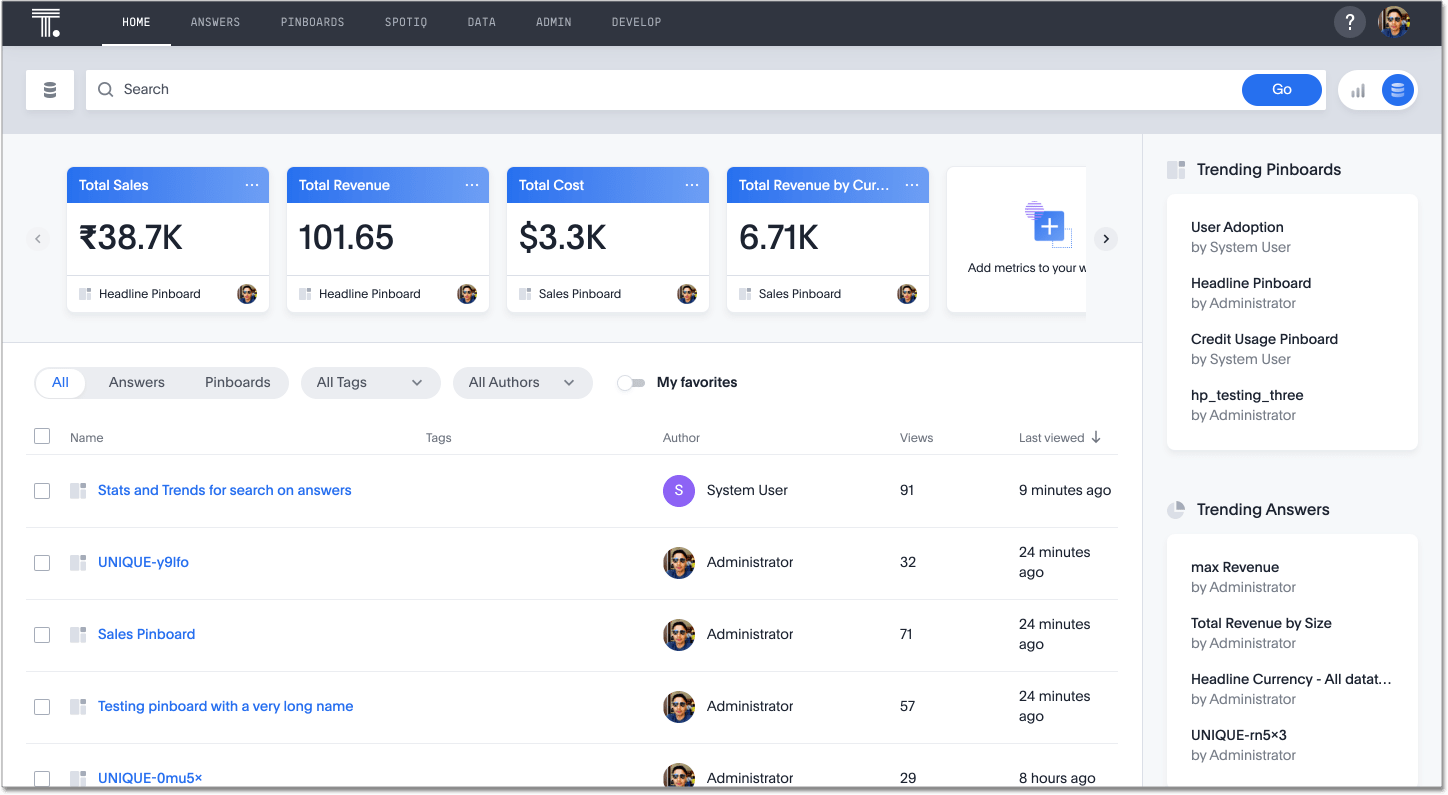
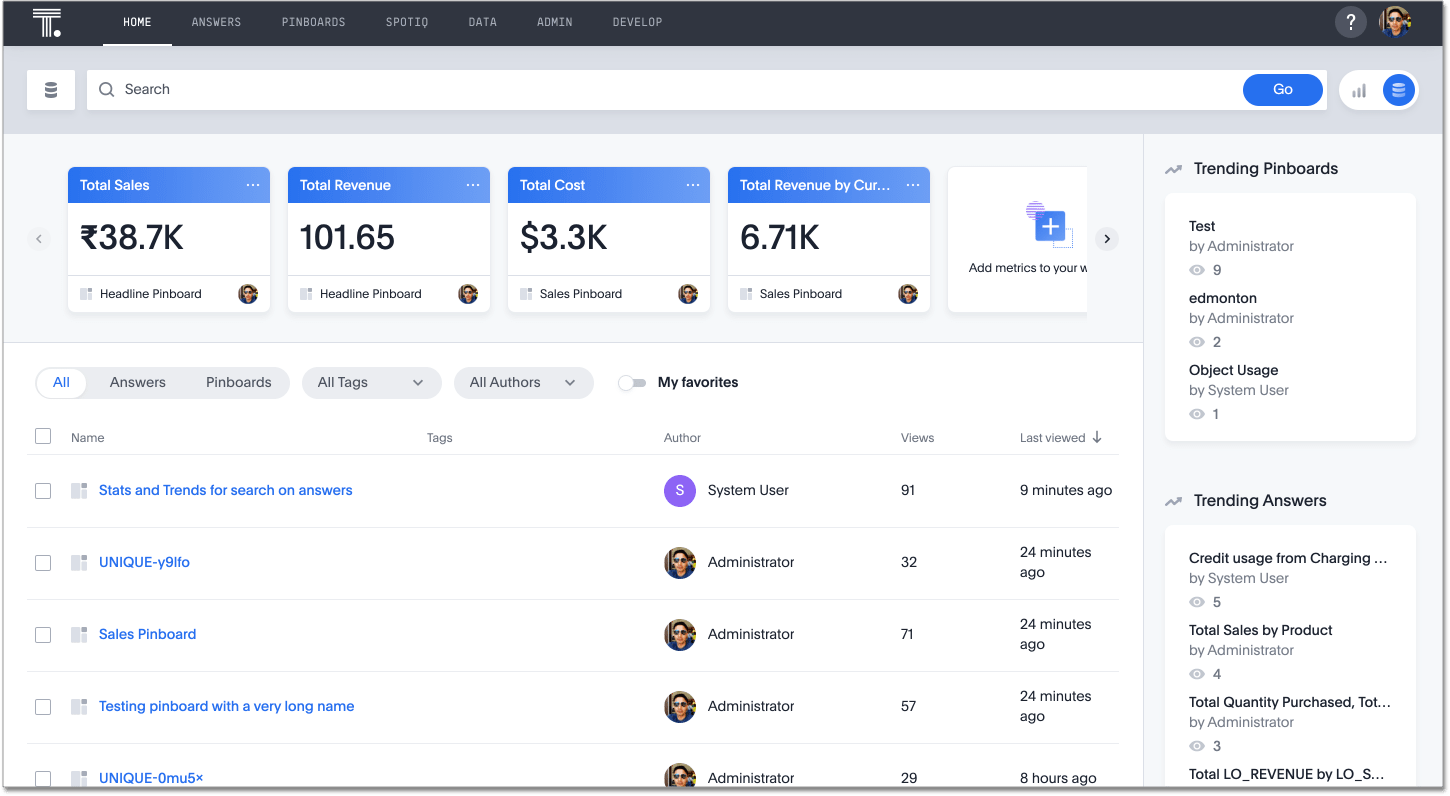
SCAL-85543 first 2 jiras documented

diff --git a/_includes/content/new-features-cloud-release.md b/_includes/content/new-features-cloud-release.md
@@ -26,6 +26,21 @@ The latest release of ThoughtSpot Cloud contains several new and enhanced featur
 
 <h3><a id="june-cloud-business-user"></a>For the Business User</h3>
 
+<dl>
+
+<dlentry id="trending-objects">
+<dt>View counts for trending objects</dt>
+<dd>You can now see the view counts for trending answers and pinboards on the home page. This can help you understand why an object is trending.</dd>
+</dlentry>
+
+<dlentry id="trending-objects-link">
+<dt>Open trending objects in a new tab</dt>
+<dd>You can now open trending objects in a new tab by right-clicking on the object link on the home page. Refer to <a href="{{ site.baseurl }}/end-user/thoughtspot-one/thoughtspot-one-homepage.html#trending">ThoughtSpot One home page</a> for more information.</dd>
+</dlentry>
+
+
+</dl>
+
 <h3><a id="june-cloud-data-engineer"></a>For the Data Engineer</h3>
 
 <h3><a id="june-cloud-it-ops-engineer"></a>For the IT Ops Engineer</h3>

diff --git a/_end-user/thoughtspot-one/thoughtspot-one-homepage.md b/_end-user/thoughtspot-one/thoughtspot-one-homepage.md
@@ -54,7 +54,7 @@ This change does not persist across sessions. If you log out and log back in, th
 
 {: id="trending"}
 ## Trending Pinboards and Answers
-The home page shows you the top 5 trending Pinboards and Answers among all users in your environment on the right panel of the screen. Easily view and interact with these trending objects by clicking on their name from the **Trending** panel.
+The home page shows you the top 5 trending Pinboards and Answers among all users in your environment on the right panel of the screen. You can see how many views these trending objects have. Easily view and interact with these trending objects by clicking on their name from the **Trending** panel. You can open them in a new tab by right-clicking on the link.
 
 {: id="filter"}
 ## Filter existing objects
